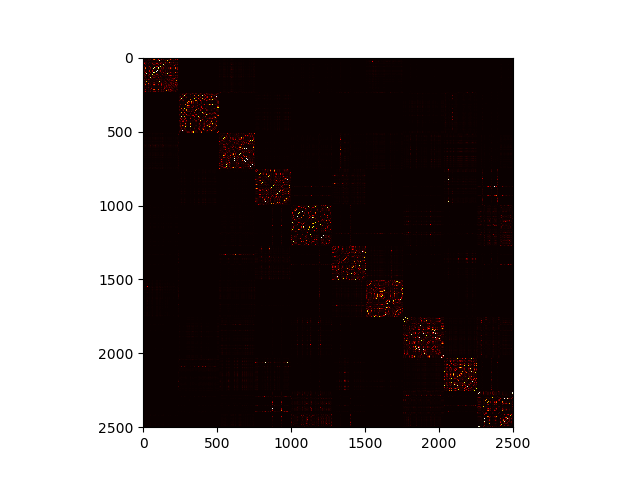
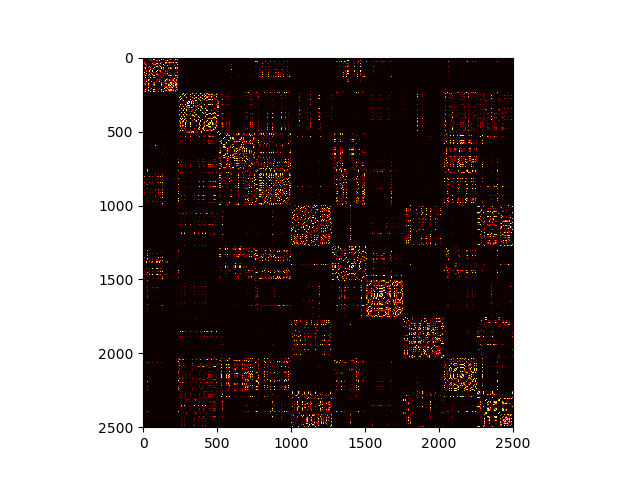
sym sne

diff --git a/HW7/tSNE.py b/HW7/tSNE.py
@@ -30,7 +30,7 @@ def Hbeta(D=np.array([]), beta=1.0):
     return H, P
 
 
-def x2p(X=np.array([]), tol=1e-5, perplexity=30.0, is_symmetric=False):
+def x2p(X=np.array([]), tol=1e-5, perplexity=30.0):
     """
         Performs a binary search to get P-values in such a way that each
         conditional Gaussian has the same perplexity.
@@ -85,16 +85,6 @@ def x2p(X=np.array([]), tol=1e-5, perplexity=30.0, is_symmetric=False):
         # Set the final row of P
         P[i, np.concatenate((np.r_[0:i], np.r_[i+1:n]))] = thisP
 
-    # make is_symmetric
-    if is_symmetric:
-        print("Computing for symmetric mode ...")
-        tmp_P = np.zeros((n, n))
-        for i in range(P.shape[0]):
-            for j in range(P.shape[1]):
-                if i != j:
-                    tmp_P[i, j] = (P[i, j]+P[j, i])/2.0
-        P = tmp_P
-
     # Return final P-matrix
     print("Mean value of sigma: %f" % np.mean(np.sqrt(1 / beta)))
     return P
@@ -143,7 +133,7 @@ def tsne(X=np.array([]), no_dims=2, initial_dims=50, perplexity=30.0, is_symmetr
     gains = np.ones((n, no_dims))
 
     # Compute P-values
-    P = x2p(X, 1e-5, perplexity, is_symmetric=is_symmetric)
+    P = x2p(X, 1e-5, perplexity)
     # plot similariry (re-ordered)
     P_ordered_row = np.zeros_like(P)
     acc_idx = 0
@@ -170,19 +160,37 @@ def tsne(X=np.array([]), no_dims=2, initial_dims=50, perplexity=30.0, is_symmetr
     # Run iterations
     for iter in range(max_iter):
 
-        # Compute pairwise affinities
-        sum_Y = np.sum(np.square(Y), 1)
-        num = -2. * np.dot(Y, Y.T)
-        num = 1. / (1. + np.add(np.add(num, sum_Y).T, sum_Y))
-        num[range(n), range(n)] = 0.
-        Q = num / np.sum(num)
-        Q = np.maximum(Q, 1e-12)
-
-        # Compute gradient
-        PQ = P - Q
-        for i in range(n):
-            dY[i, :] = np.sum(np.tile(PQ[:, i] * num[:, i],
-                                      (no_dims, 1)).T * (Y[i, :] - Y), 0)
+        if is_symmetric:
+            # Computing symmetric SNE
+            # Compute pairwise affinities
+            sum_Y = np.sum(np.square(Y), 1)
+            num = -2. * np.dot(Y, Y.T)
+            # sexy way to implement (1/(yi-yj)**2)
+            num = -1 * np.add(np.add(num, sum_Y).T, sum_Y)
+            num = np.exp(num)
+            num[range(n), range(n)] = 0.
+            Q = num / np.sum(num)
+            Q = np.maximum(Q, 1e-12)
+            # Compute gradient
+            PQ = P - Q
+            for i in range(n):
+                dY[i, :] = np.sum(
+                    np.tile(PQ[:, i], (no_dims, 1)).T * (Y[i, :] - Y), 0)
+        else:
+            # Computing t SNE
+            # Compute pairwise affinities
+            sum_Y = np.sum(np.square(Y), 1)
+            num = -2. * np.dot(Y, Y.T)
+            # sexy way to implement (1/(yi-yj)**2)
+            num = 1. / (1. + np.add(np.add(num, sum_Y).T, sum_Y))
+            num[range(n), range(n)] = 0.
+            Q = num / np.sum(num)
+            Q = np.maximum(Q, 1e-12)
+            # Compute gradient
+            PQ = P - Q
+            for i in range(n):
+                dY[i, :] = np.sum(np.tile(PQ[:, i] * num[:, i],
+                                          (no_dims, 1)).T * (Y[i, :] - Y), 0)
 
         # Perform the update
         if iter < 20:
